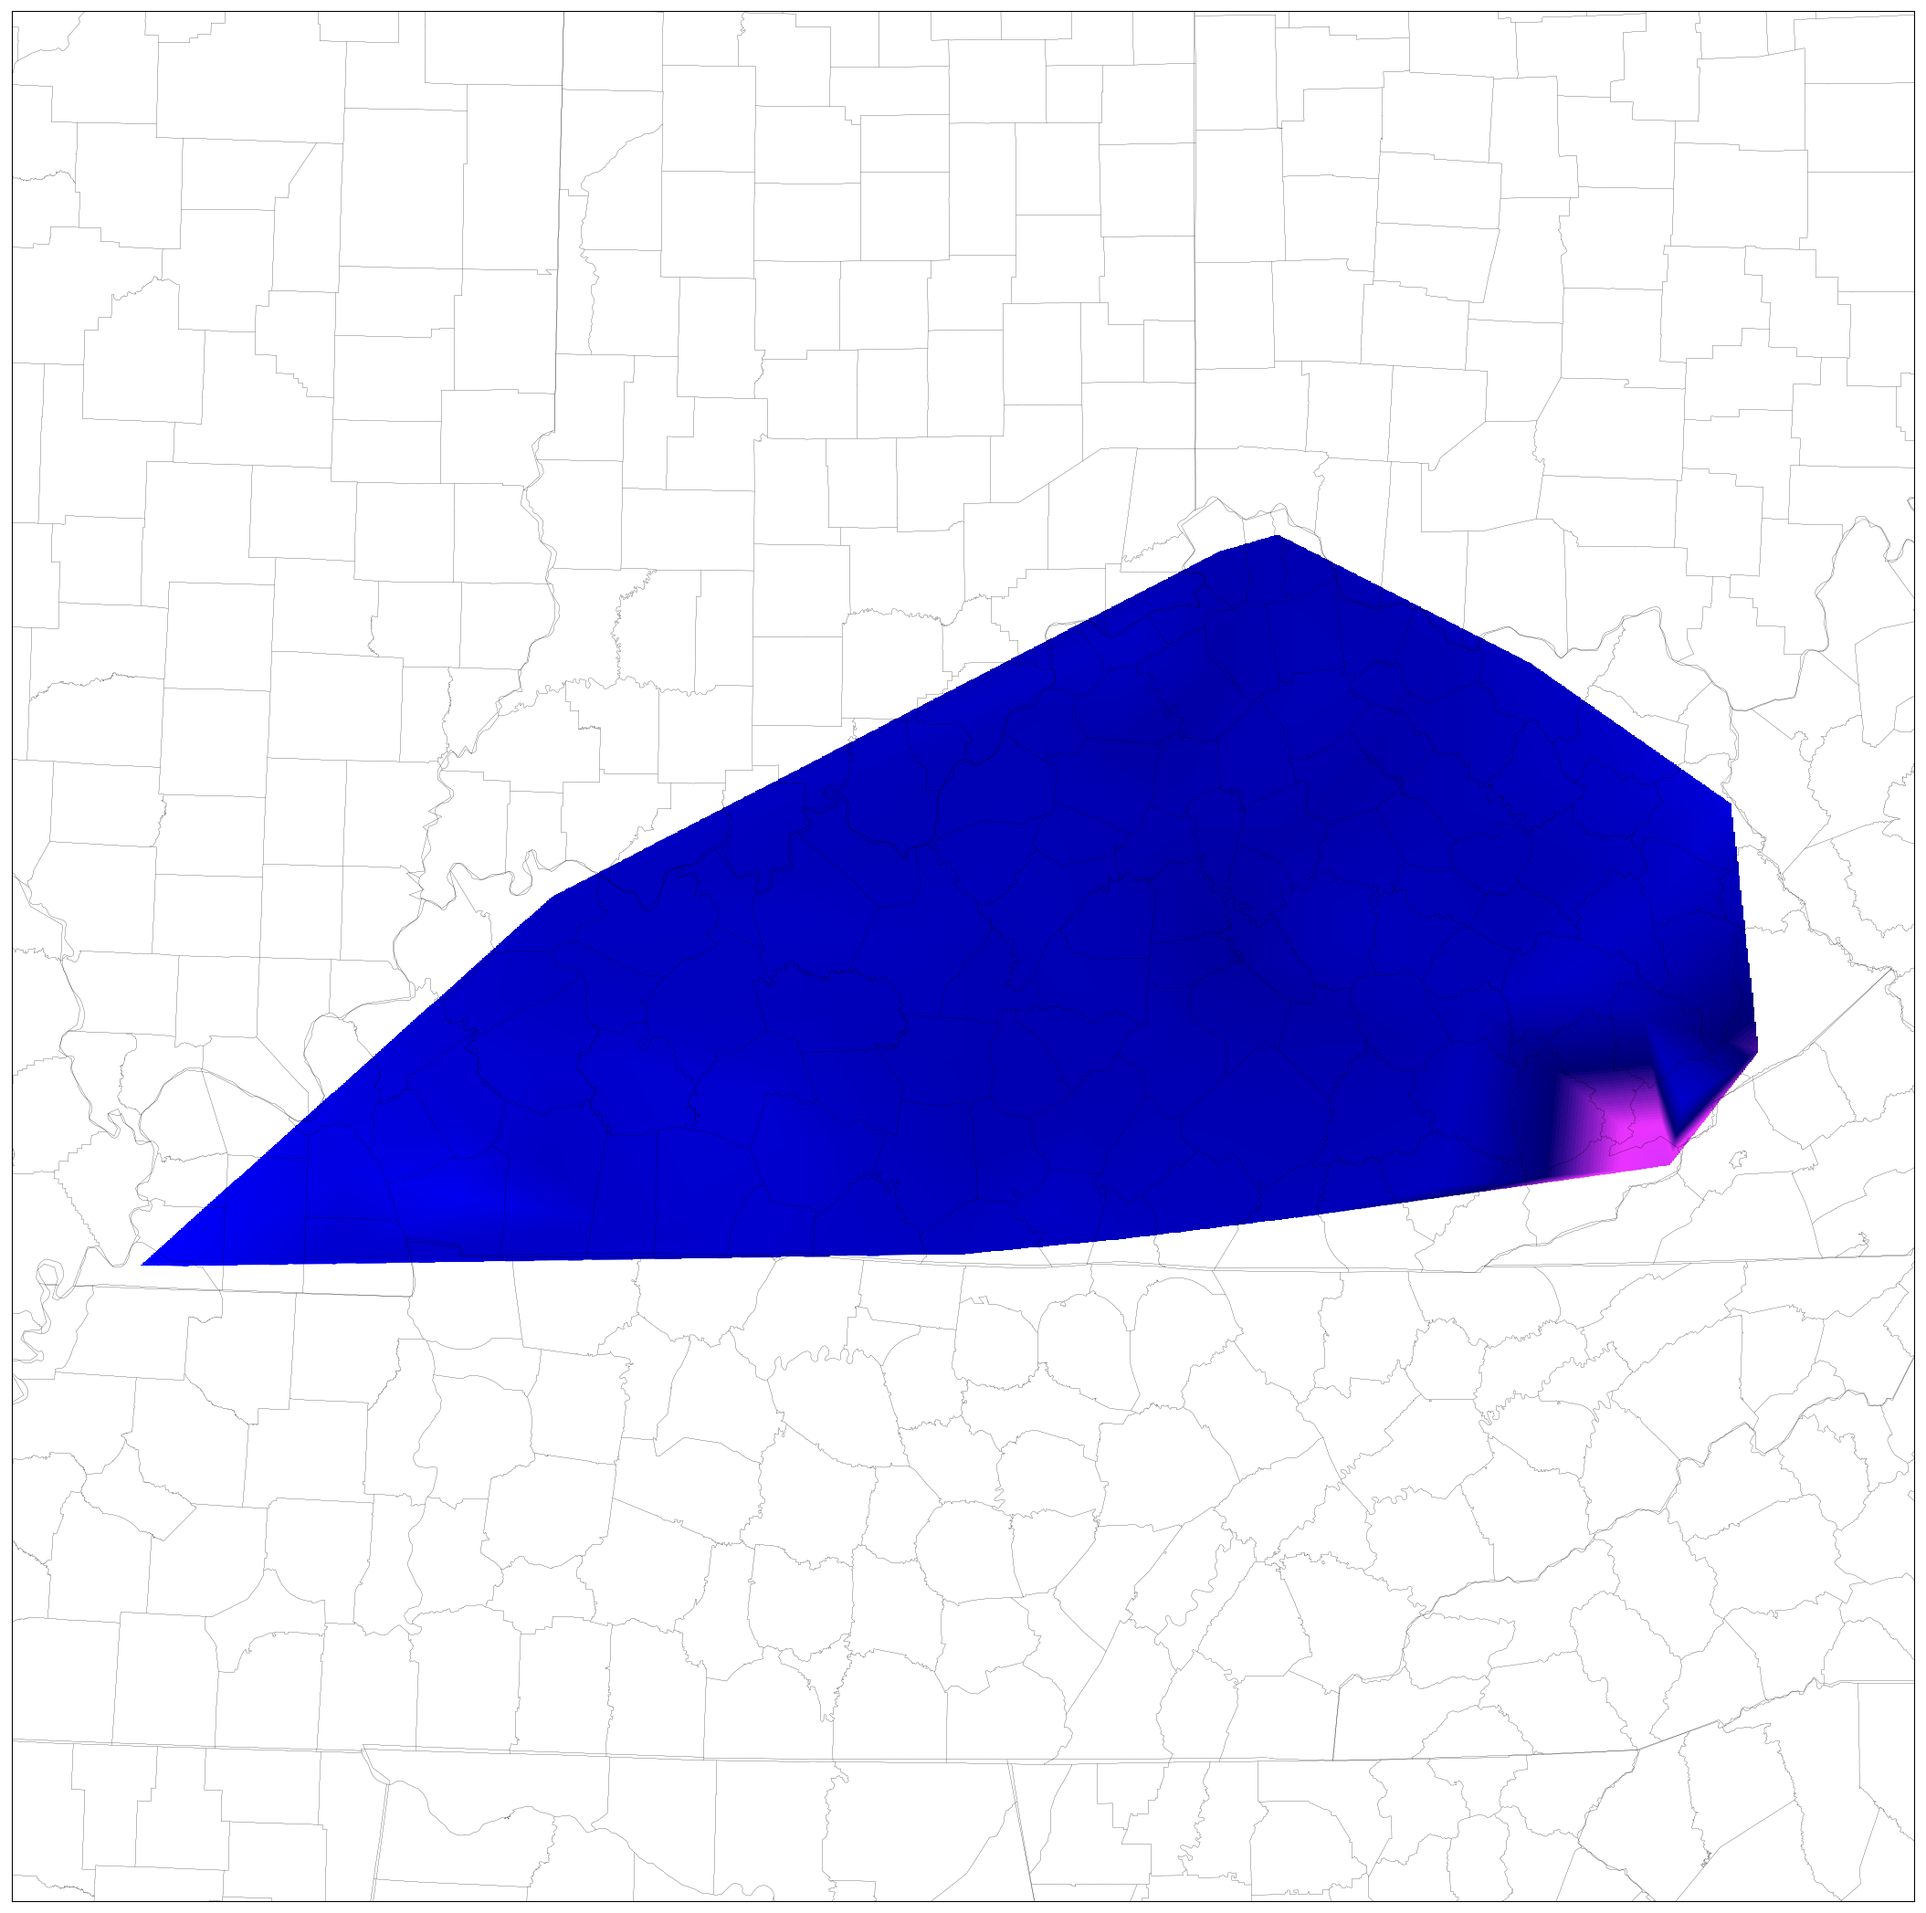
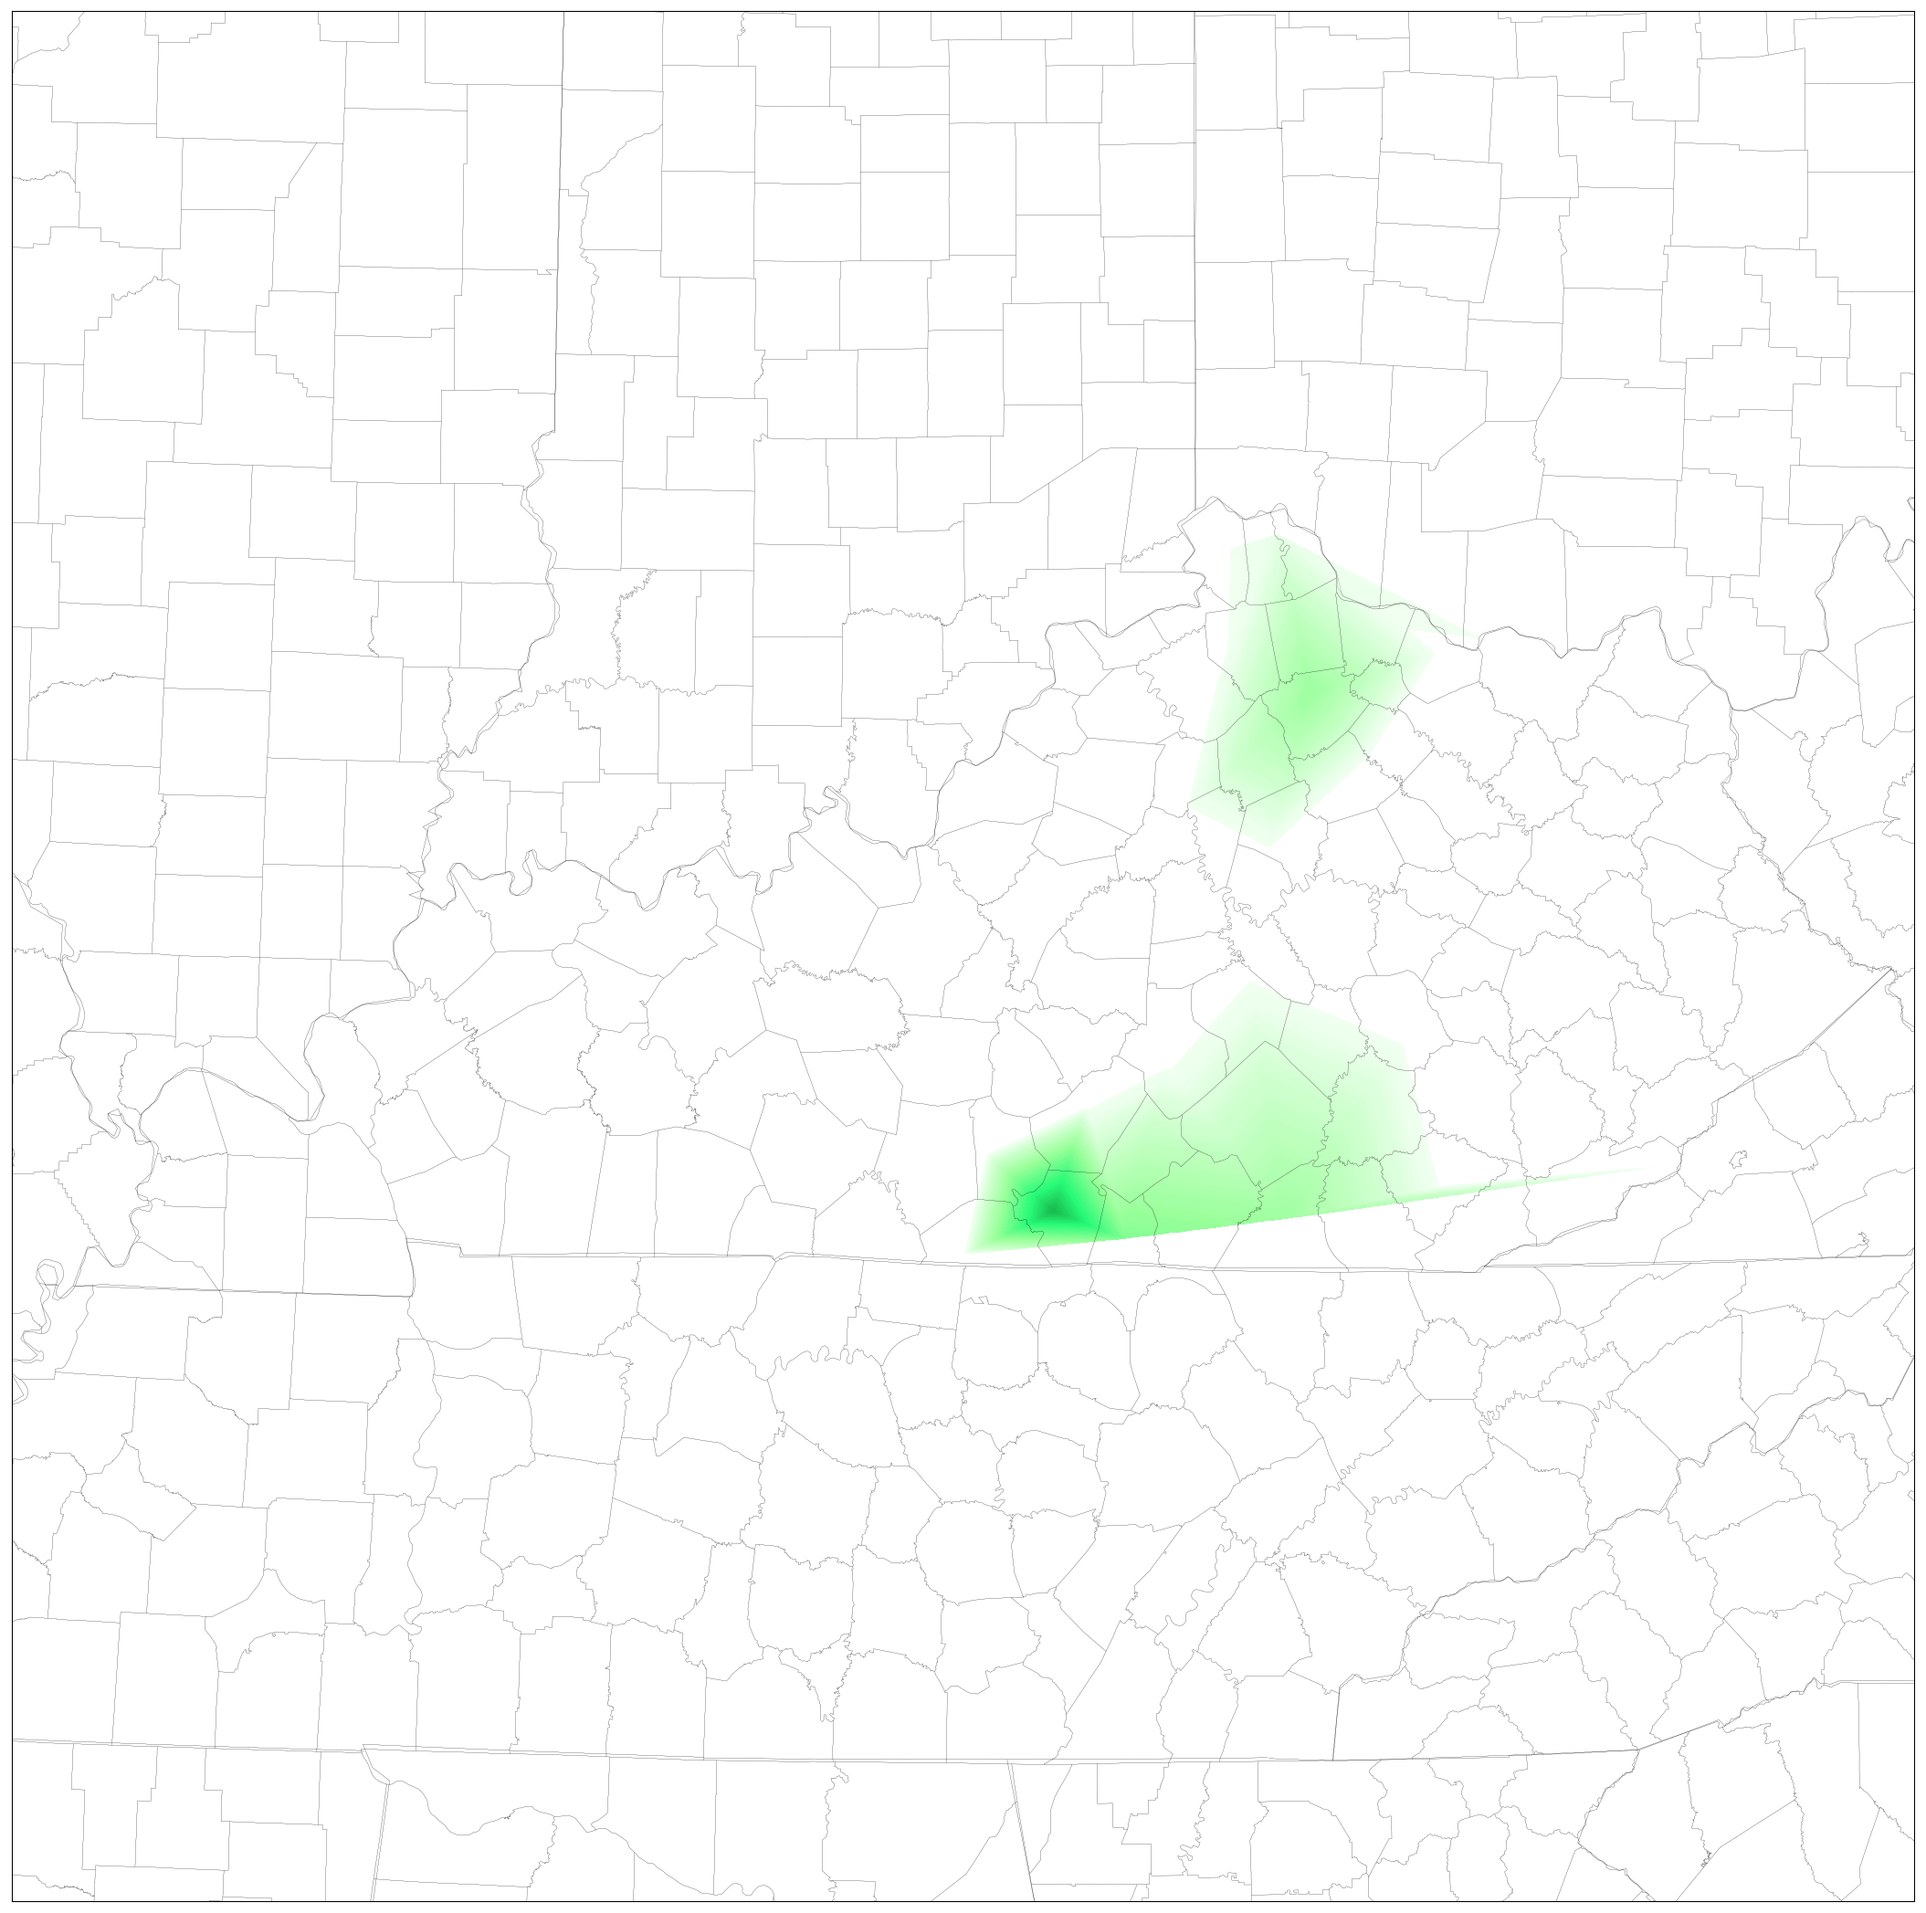
New parser

Changed region(s): [[0.0616, 0.2792, 0.9246, 0.6826]]

diff --git a/Parser.py b/Parser.py
@@ -12,60 +12,78 @@ from Site import *
 import numpy as np
 
 class Parser(object):
+        def __init__(self):
+                self.url = "http://www.kymesonet.org/app.json"
+                self.json = self.load()
 
-	def __init__(self):
-		self.url = "http://www.kymesonet.org/current.json"
-		self.json,self.sites= self.load(0)
+        def load(self):
+                with urllib.request.urlopen(self.url) as url:
+                        data = json.loads(url.read().decode())
+                return data
+        
+        def get(self,data):
+                weatherData = []
+                for i in range(0,len(self.json)):
+                        if(self.json[i][data] != None):
+                                weatherData.append(self.json[i][data])
+                return weatherData
 
-	def load(self, refresh):
-		if refresh == 1:
-			with urllib.request.urlopen(self.url) as url:
-				data = json.loads(url.read().decode())
-			print("---UPDATE: Current weather JSON updated...---")
-			self.json = data
-		else:
-			with open('sites.json') as json_data:
-				sites = json.load(json_data)
-			print("---UPDATE: Site Location Data Loaded...---")
-			with urllib.request.urlopen(self.url) as url:
-				data = json.loads(url.read().decode())
-			print("---UPDATE: Current weather data updated...---")
-			return data,sites
-
-	def convert(self, data, dataType):
-		convertedData = []
-		if dataType == 'TMAX' or dataType == 'TMIN' or dataType == 'WCHI':
-			for i in data:
-				convertedData.append(np.add(32., np.multiply(i, 9./5.)))
-			print("---CONVERTED: Celcius -> Fahrenheit---"),
-			print(convertedData)
-			return convertedData
-		return data
-				
-
-	def getData(self, json, searchVal):
-		try:
-			print("---UPDATE: {0} Data Fetched---".format(searchVal))
-			print(json[searchVal])
-			return json[searchVal]
-		except KeyError:
-			print ('Not a valid searchVal')
-			return False
-
-	def getSiteNames(self, json):
-		sites = self.getData(json,'s')
-		sites = [sites[i:i+4] for i in range(0, len(sites), 4)]
-		print("---UPDATE: Parsing Sites---")
-		print(sites)
-		return sites
-
-	def assembleSiteObjs(self):
-		count = 0
-		siteObjs = []
-		siteNames = self.getSiteNames(self.json)
-		for site in self.sites:
-			s = Site(site['Lon'], site['Lat'])
-			siteObjs.append(s)
-			count = count + 1
-		print("---UPDATE: Site Objects Created...---")
-		return siteObjs
+##
+##class Parser(object):
+##
+##	def __init__(self):
+##		self.url = "http://www.kymesonet.org/current.json"
+##		self.json,self.sites= self.load(0)
+##
+##	def load(self, refresh):
+##		if refresh == 1:
+##			with urllib.request.urlopen(self.url) as url:
+##				data = json.loads(url.read().decode())
+##			print("---UPDATE: Current weather JSON updated...---")
+##			self.json = data
+##		else:
+##			with open('sites.json') as json_data:
+##				sites = json.load(json_data)
+##			print("---UPDATE: Site Location Data Loaded...---")
+##			with urllib.request.urlopen(self.url) as url:
+##				data = json.loads(url.read().decode())
+##			print("---UPDATE: Current weather data updated...---")
+##			return data,sites
+##
+##	def convert(self, data, dataType):
+##		convertedData = []
+##		if dataType == 'TMAX' or dataType == 'TMIN' or dataType == 'WCHI':
+##			for i in data:
+##				convertedData.append(np.add(32., np.multiply(i, 9./5.)))
+##			print("---CONVERTED: Celcius -> Fahrenheit---"),
+##			print(convertedData)
+##			return convertedData
+##		return data
+##				
+##
+##	def getData(self, json, searchVal):
+##		try:
+##			print("---UPDATE: {0} Data Fetched---".format(searchVal))
+##			print(json[searchVal])
+##			return json[searchVal]
+##		except KeyError:
+##			print ('Not a valid searchVal')
+##			return False
+##
+##	def getSiteNames(self, json):
+##		sites = self.getData(json,'s')
+##		sites = [sites[i:i+4] for i in range(0, len(sites), 4)]
+##		print("---UPDATE: Parsing Sites---")
+##		print(sites)
+##		return sites
+##
+##	def assembleSiteObjs(self):
+##		count = 0
+##		siteObjs = []
+##		siteNames = self.getSiteNames(self.json)
+##		for site in self.sites:
+##			s = Site(site['Lon'], site['Lat'])
+##			siteObjs.append(s)
+##			count = count + 1
+##		print("---UPDATE: Site Objects Created...---")
+##		return siteObjs

diff --git a/Map.py b/Map.py
@@ -16,9 +16,9 @@ import matplotlib.mlab as mlab
 
 class Map(object):
         
-	def __init__(self,data,sites):
-		self.data = data
-		self.sites = sites
+	def __init__(self,dataType, db):
+		self.dataType = dataType
+		self.db = db
 		self.cmap = None
 		self.vmin = None
 		self.vmax = None
@@ -26,18 +26,15 @@ class Map(object):
 		print("---UPDATE: Map object created with current data---")
 
 	def plotData(self):
-		lons = []
-		lats = []
-		for i in self.sites:
-			lons.append(i.lon)
-			lats.append(i.lat)
+		lons = self.db.get('Lon')
+		lats = self.db.get('Lat')
 		x, y = self.baseMap(lons, lats)
 		x_min, x_max = min(x), max(x)
 		y_min, y_max = min(y), max(y)
 		xi = np.linspace(x_min, x_max, 1000) # xi
 		yi = np.linspace(y_min, y_max, 1000) # yi
 		xi, yi = np.meshgrid(xi, yi) # convert vectors to grids
-		valsi = mlab.griddata(x, y, self.data, xi, yi, interp='linear') # zi
+		valsi = mlab.griddata(x, y, self.db.get(self.dataType), xi, yi, interp='linear') # zi
 		norm = cm.colors.Normalize(vmax=self.vmax, vmin=self.vmin)
 		self.baseMap.contour(xi, yi, valsi, 100, cmap=self.cmap, norm=norm, zorder=0)
 		self.baseMap.contourf(xi, yi, valsi, 100, cmap=self.cmap, norm=norm, zorder=0)

diff --git a/main.py b/main.py
@@ -17,15 +17,10 @@ def main():
 		starttime=time.time()
 		dataType = argv[1]
 		p = Parser()
-		sites = p.assembleSiteObjs()
-		while True:
-			weather = p.convert(p.getData(p.json, dataType), dataType)
-			map = Map(weather,sites)
-			map.setupColorMap(dataType, None)
-			map.setupBasemap()
-			map.plotData()
-			time.sleep(60.0 - ((time.time() - starttime) % 60.0))
-			
+		map = Map(dataType,p)
+		map.setupColorMap(dataType, None)
+		map.setupBasemap()
+		map.plotData()			
 		
 	except IndexError:
 		fmt = 'Enter valid weather data... (ex. python main.py "TC03")'
